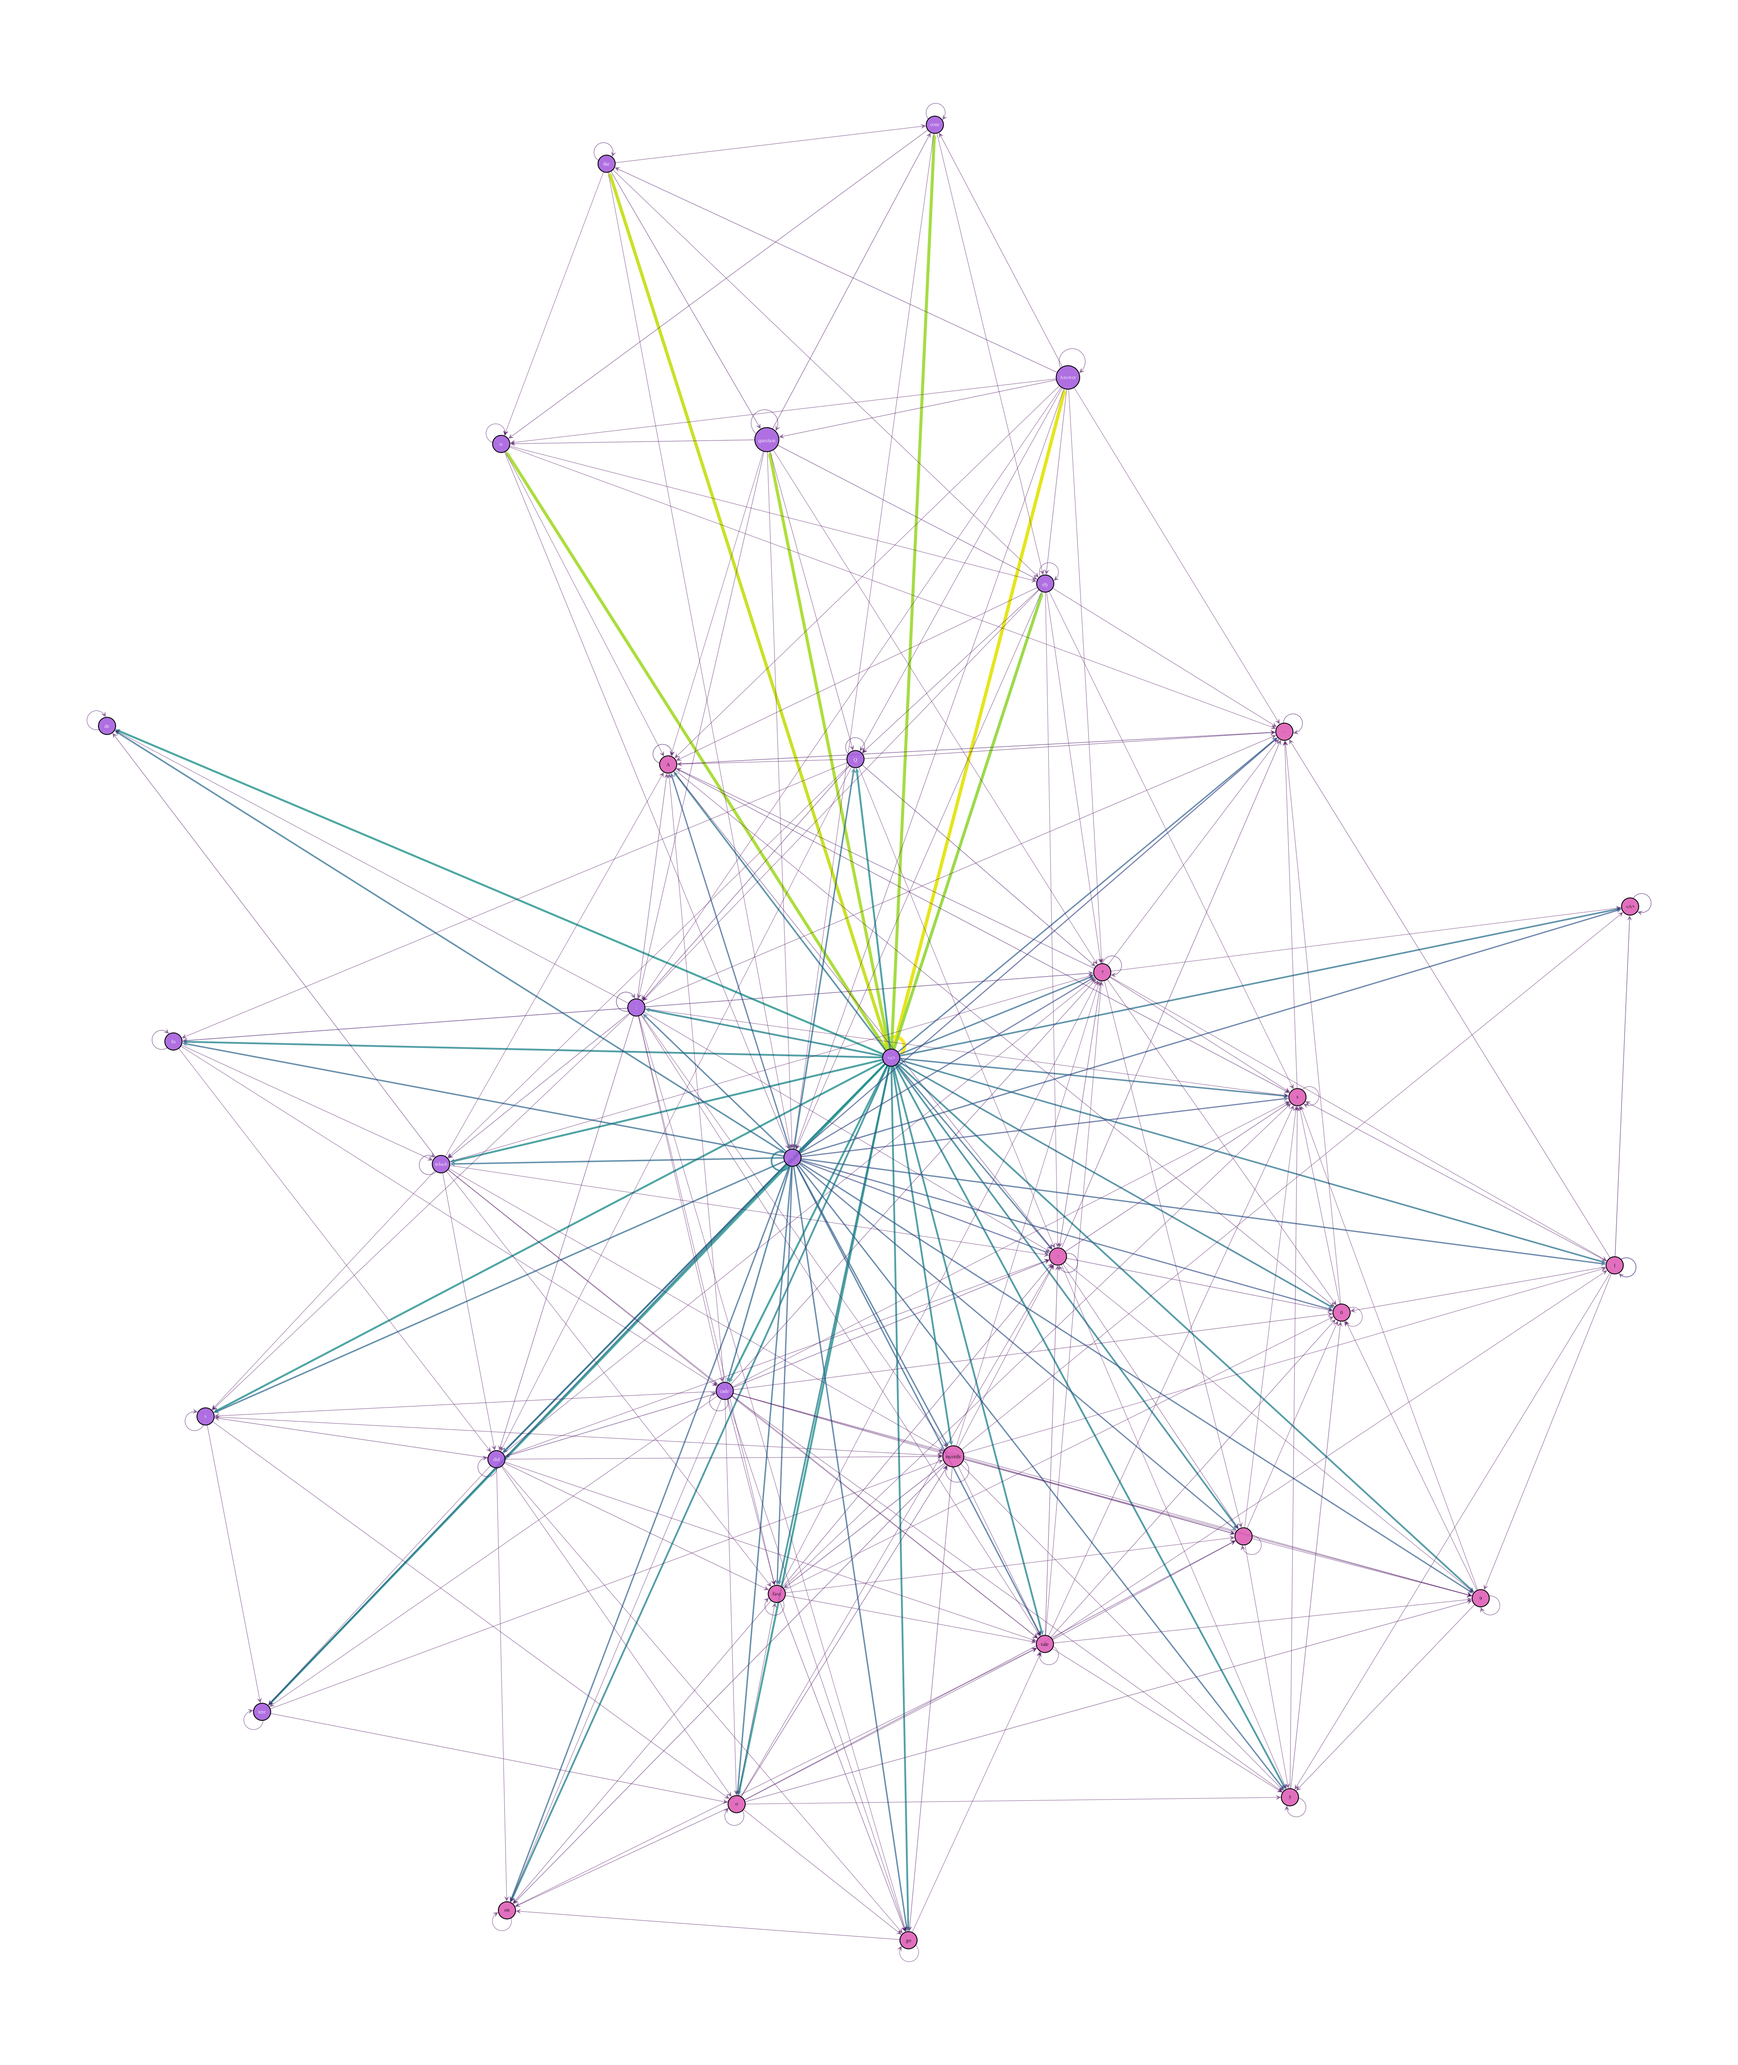
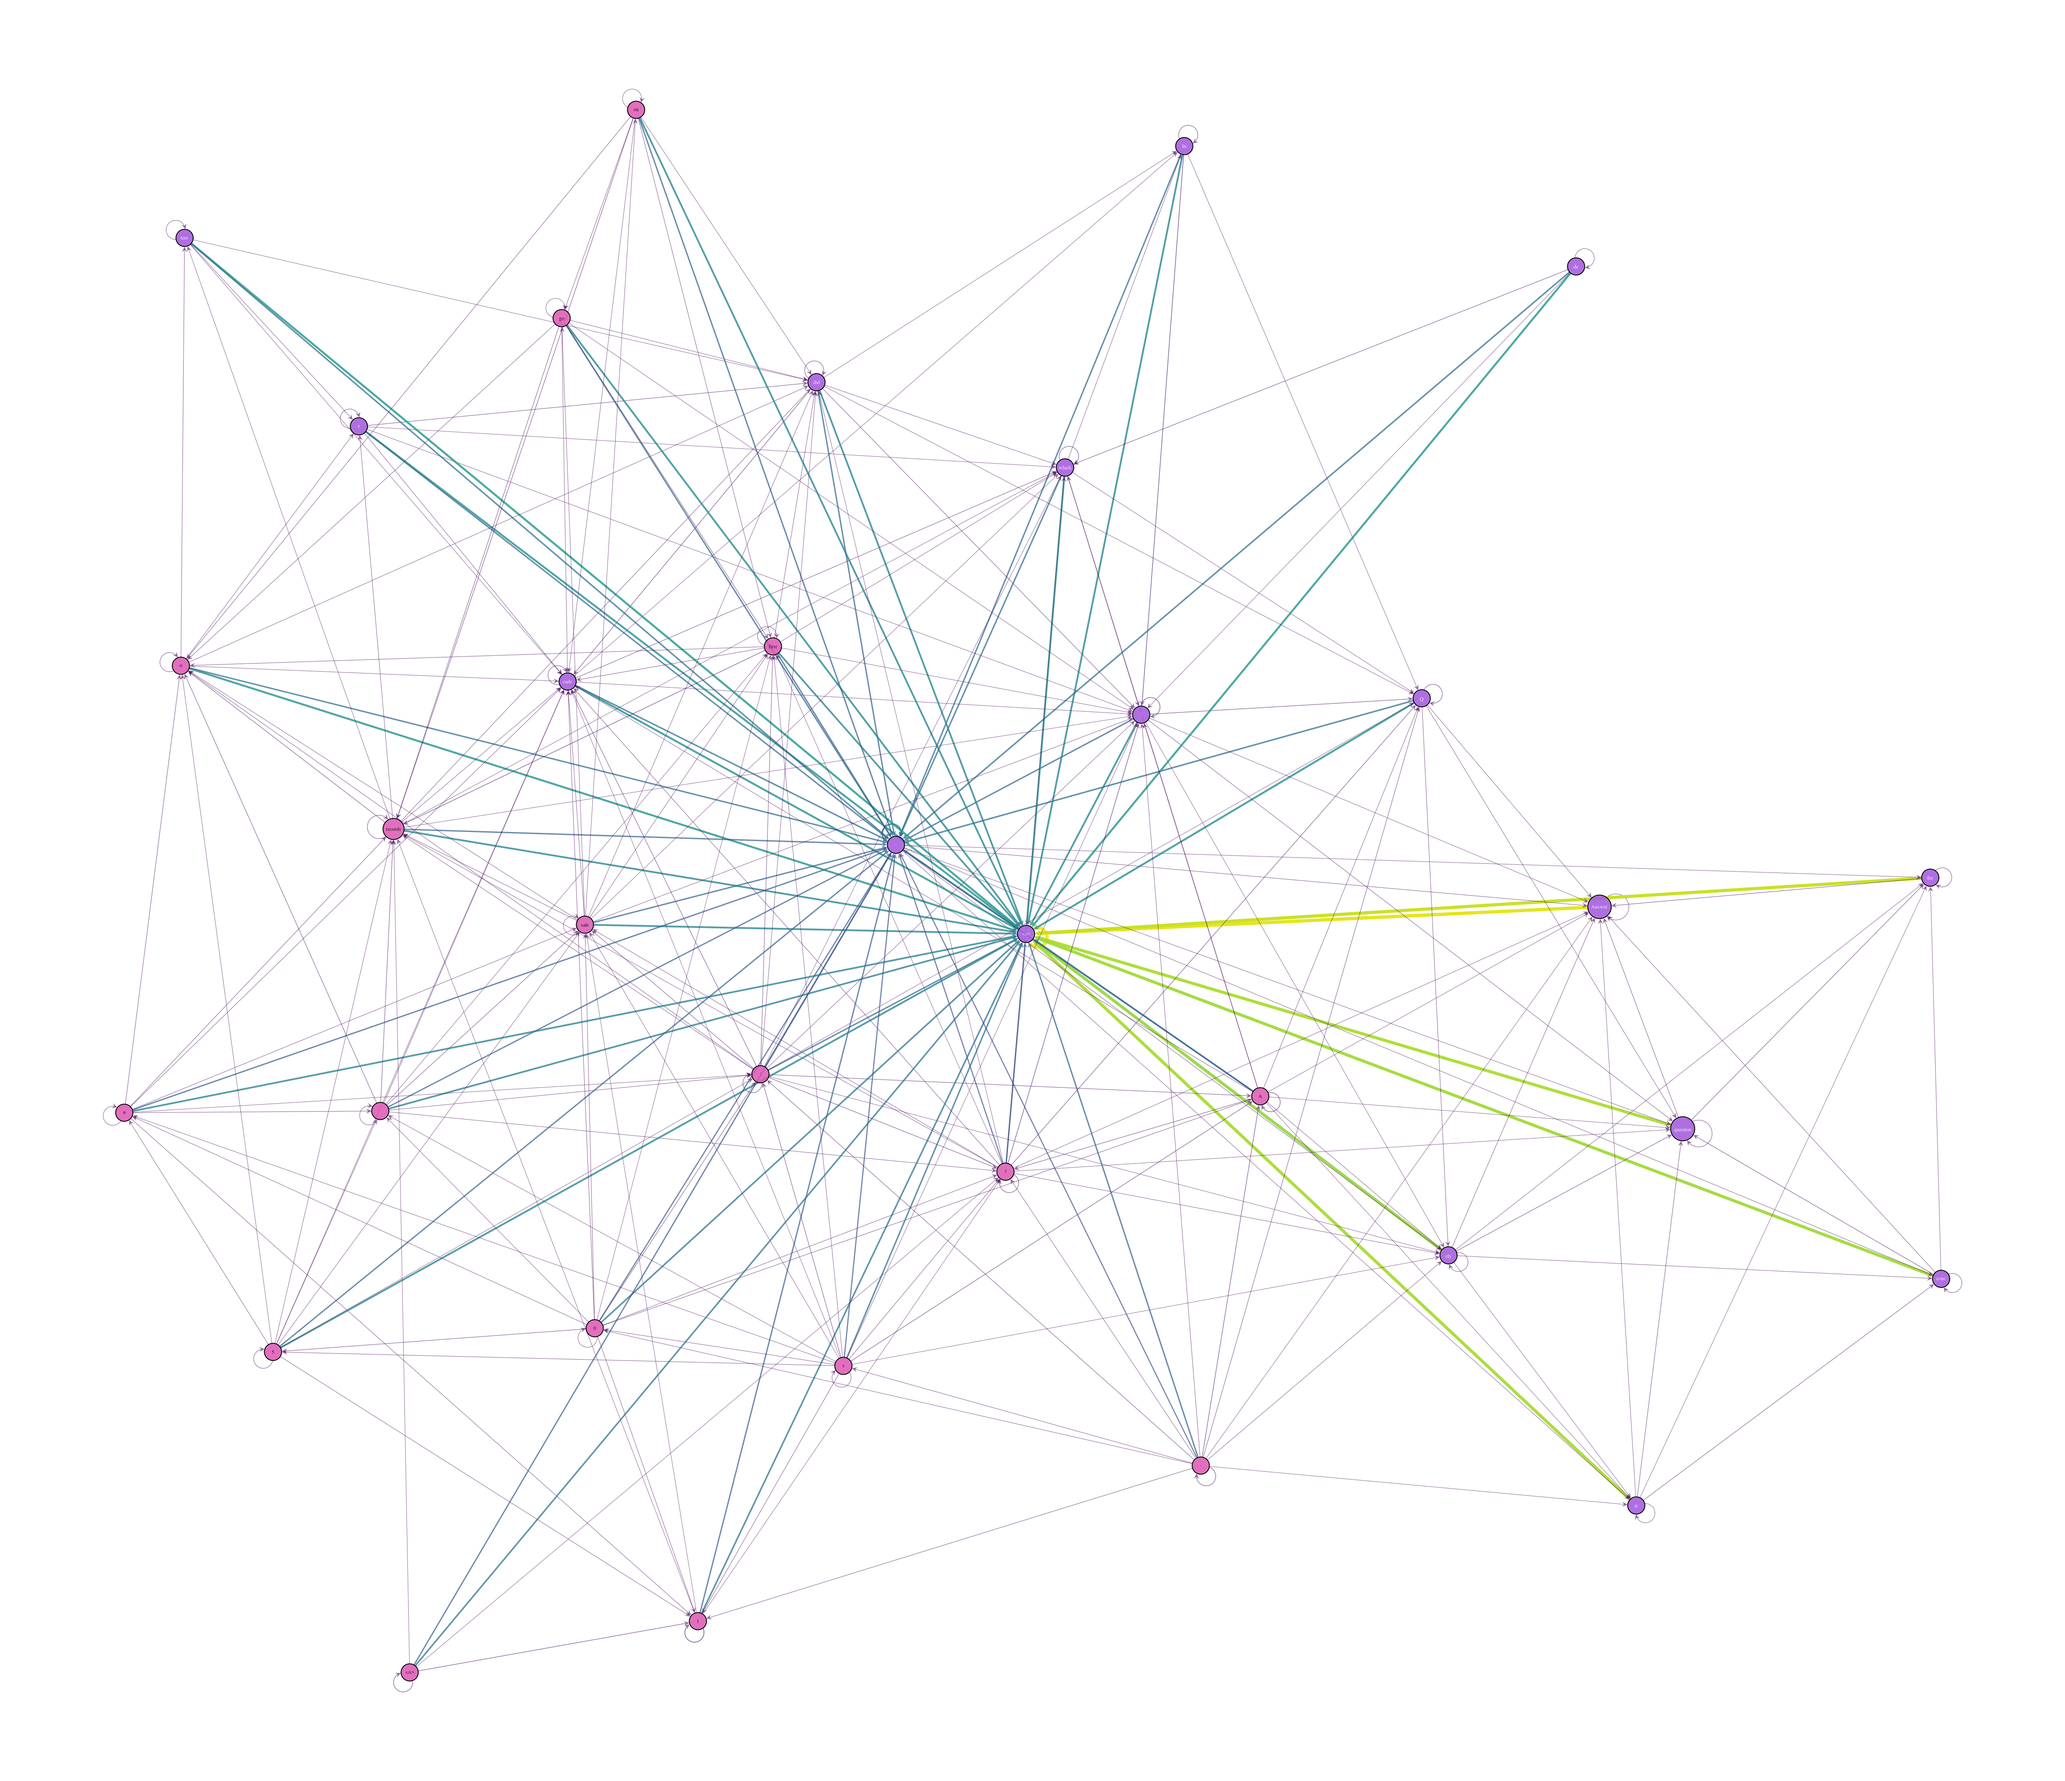
aplicando semántica de causalidad entre nodos

diff --git a/src/dataloader.py b/src/dataloader.py
@@ -235,7 +235,16 @@ class TraceGraphDataset(TorchDataset):
             attn_avg = F.pad(attn_avg, (0, pad_size, 0, pad_size), value=0.0)
         
         # Aplicar umbral de forma eficiente
-        mask = attn_avg > self.attn_threshold
+        # IMPORTANTE: Respetar causalidad - solo considerar triangular inferior
+        # attn_avg[i,j] = cuánta atención el token i presta al token j
+        # El arco debe ir: i -> j (el observador apunta a lo observado)
+        # Por causalidad en modelos autoregresivos: solo puede haber arcos i->j si j <= i
+        
+        # Crear máscara causal (triangular inferior)
+        causal_mask = torch.tril(torch.ones(num_nodes, num_nodes, dtype=torch.bool))
+        
+        # Aplicar tanto umbral como máscara causal
+        mask = (attn_avg > self.attn_threshold) & causal_mask
         
         # Obtener edge_index de forma eficiente
         indices = mask.nonzero(as_tuple=False).t()
@@ -246,8 +255,9 @@ class TraceGraphDataset(TorchDataset):
             indices = indices[:, valid_mask]
             
             if indices.numel() > 0:
-                # Crear edge_index (j -> i según cita 195)
-                edge_index = torch.stack([indices[1], indices[0]], dim=0)
+                # Crear edge_index: i -> j donde attn_avg[i,j] > threshold
+                # indices[0] = i (observador), indices[1] = j (observado)
+                edge_index = torch.stack([indices[0], indices[1]], dim=0)
                 
                 # Obtener edge_attr
                 edge_attr = attn_avg[mask][valid_mask].unsqueeze(1)

diff --git a/src/visualize_attention_graph.py b/src/visualize_attention_graph.py
@@ -109,12 +109,15 @@ def create_attention_graph(trace, layer_idx, attn_threshold=0.01):
         v_label[G.vertex(i)] = token_text
     
     # 4. Agregar arcos basados en threshold de atención
+    # IMPORTANTE: Respetar causalidad - solo crear arcos i -> j donde j <= i
+    # attn_avg[i, j] = cuánta atención el token i presta al token j
+    # Por lo tanto, el arco debe ir: i -> j (el observador apunta a lo observado)
     edge_weights = []
     for i in range(num_nodes):
-        for j in range(num_nodes):
+        for j in range(i + 1):  # Solo j <= i (triangular inferior por causalidad)
             weight = attn_avg[i, j]
             if weight > attn_threshold:
-                e = G.add_edge(G.vertex(j), G.vertex(i))  # j -> i (source -> target)
+                e = G.add_edge(G.vertex(i), G.vertex(j))  # i -> j (observador -> observado)
                 e_weight[e] = weight
                 edge_weights.append(weight)
     
